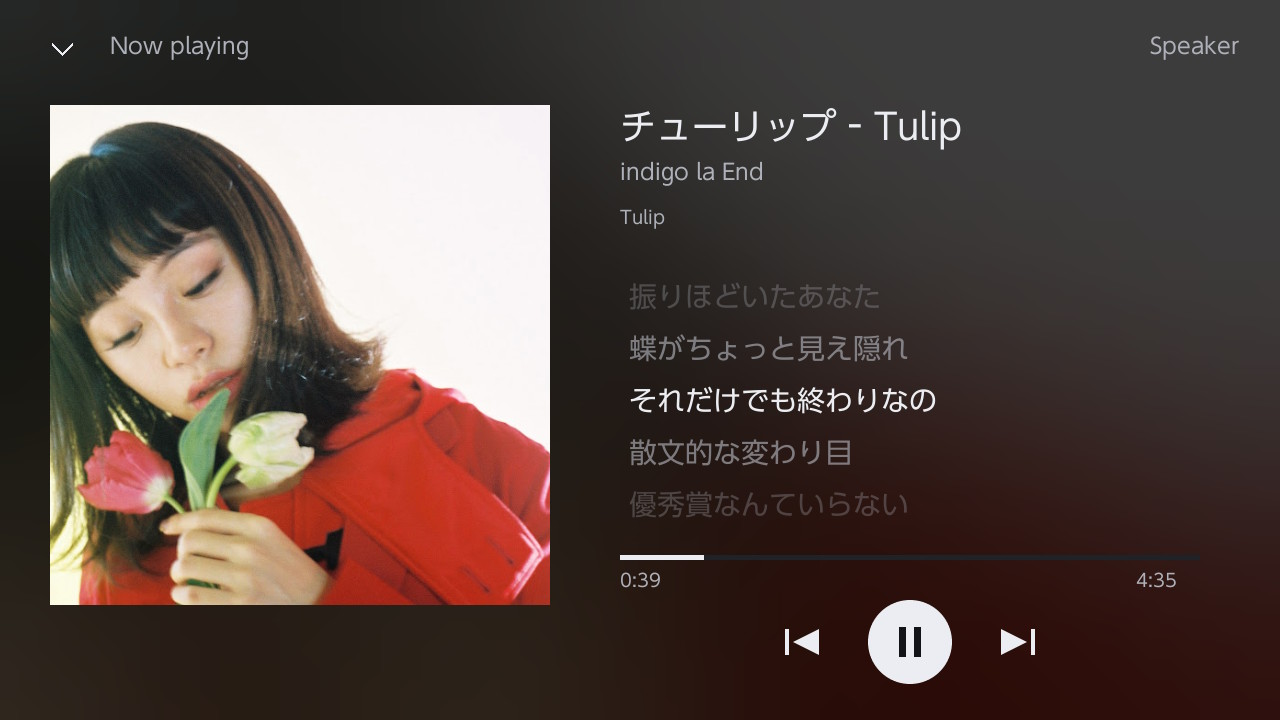
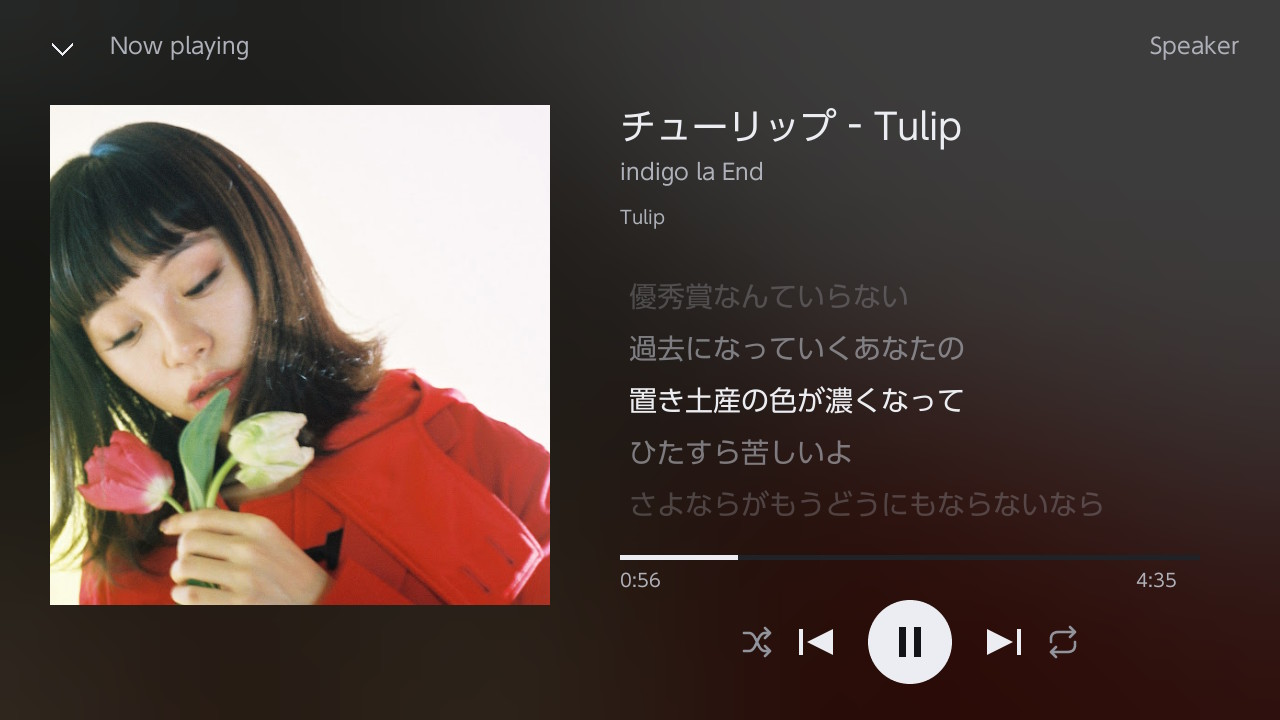
shuffle repeat

diff --git a/src/app.cpp b/src/app.cpp
@@ -3,6 +3,9 @@
 #include "library_store.hpp"
 #include "touch_scroll.hpp"
 #include "visuals.hpp"
+#include "playback_order.hpp"
+#include "queue_actions.hpp"
+#include "playback_icons.hpp"
 #include <SDL2/SDL_ttf.h>
 #include <SDL2/SDL_image.h>
 #include <fstream>
@@ -30,11 +33,11 @@ std::string clockText(double sec){int t=std::max(0,int(sec));return std::to_stri
 struct Hit {SDL_Rect rect;std::function<void()> action;};
 class App {
     SDL_Window* window_=nullptr;SDL_Renderer* renderer_=nullptr;std::map<int,TTF_Font*> fonts_;
-    std::map<std::string,SDL_Texture*> textures_,backgrounds_;std::vector<Hit> hits_;
+    std::map<std::string,SDL_Texture*> textures_,backgrounds_;std::vector<Hit> hits_;std::vector<Song> upcomingRows_;std::vector<int> upcomingIndices_;
     std::map<std::string,SDL_Texture*> shapeTextures_;
     struct TitleTexture{SDL_Texture* texture;int width,height;Uint32 started;};std::map<std::string,TitleTexture> titleTextures_;
     std::string lyricAnimationSong_;int lyricTarget_=-2;double lyricVisual_=0,lyricFrom_=0;Uint32 lyricAnimationStart_=0;std::map<std::string,int> lyricHeights_;Song pendingMetadata_;
-    Api api_;std::unique_ptr<Player> player_;std::thread fetch_,art_,lyricsWorker_;
+    PlaybackOrder playbackOrder_{unsigned(SDL_GetPerformanceCounter())};Api api_;std::unique_ptr<Player> player_;std::thread fetch_,art_,lyricsWorker_;
     std::atomic<bool> closing_{false},loading_{false};std::mutex dataMutex_;
     std::vector<Song> results_,searchRows_,artistRows_,albumRows_,relatedRows_,pending_,library_,queue_,artRequests_;std::map<std::string,std::string> artPending_;
     std::condition_variable lyricsCv_;Song lyricsRequest_;bool lyricsRequested_=false;std::map<std::string,Lyrics> lyricCache_,lyricPending_;
@@ -46,7 +49,7 @@ class App {
     PadState pad_;AppletHookCookie hook_{};bool audioControlReady_=false;
 #endif
     Uint32 audioPoll_=0;std::string audioRoute_="Audio: --";
-    Uint32 artworkRetry_=0,analogRepeat_=0;int analogDirection_=0;
+    Uint32 artworkRetry_=0,analogRepeat_=0;int analogDirection_=0;float homeScroll_=0;int homeSelection_=0;
     std::string libraryPath_;
     void color(SDL_Color c){SDL_SetRenderDrawColor(renderer_,c.r,c.g,c.b,c.a);}
     void rect(SDL_Rect r,SDL_Color c){color(c);SDL_RenderFillRect(renderer_,&r);}
@@ -77,7 +80,16 @@ class App {
         hits_.push_back({r,std::move(action)});
     }
     void togglePlayback(){if(current_.id.empty())search();else if(!player_->active())player_->play(current_);else player_->toggle();}
-    void transport(int center,int y){icon({center-137,y+10,64,64},0,[this]{next(-1);});icon({center-42,y,84,84},player_->active()&&!player_->paused()?2:1,[this]{togglePlayback();},true);icon({center+73,y+10,64,64},3,[this]{next(1);});}
+    void playbackMode(SDL_Rect r,bool shuffle){
+        bool enabled=shuffle?playbackOrder_.shuffle:playbackOrder_.repeat!=0;SDL_Color fg=enabled?ink:SDL_Color{145,148,157,255};
+        std::string key="mode|"+std::to_string(shuffle)+"|"+std::to_string(enabled);auto it=shapeTextures_.find(key);
+        if(it==shapeTextures_.end()){auto* s=playback_icon(shuffle,fg);if(s){auto* texture=SDL_CreateTextureFromSurface(renderer_,s);SDL_FreeSurface(s);if(texture)it=shapeTextures_.emplace(key,texture).first;}}
+        if(it!=shapeTextures_.end()){SDL_Rect dest{r.x+4,r.y+6,36,36};SDL_RenderCopy(renderer_,it->second,nullptr,&dest);}
+        if(!shuffle&&playbackOrder_.repeat==2)centeredLabel("1",{r.x+10,r.y+12,24,24},12,fg);
+        if(enabled)round({r.x+20,r.y+44,4,4},2,ink);
+        hits_.push_back({r,[this,shuffle]{if(shuffle){playbackOrder_.shuffle=!playbackOrder_.shuffle;playbackOrder_.reset(int(queue_.size()),queueIndex_);notice_=playbackOrder_.shuffle?"Shuffle on":"Shuffle off";}else{playbackOrder_.repeat=(playbackOrder_.repeat+1)%3;notice_=playbackOrder_.repeat==0?"Repeat off":playbackOrder_.repeat==1?"Repeat all":"Repeat one";}}});
+    }
+    void transport(int center,int y){playbackMode({center-175,y+18,44,48},true);icon({center-117,y+16,52,52},0,[this]{next(-1);});icon({center-42,y,84,84},player_->active()&&!player_->paused()?2:1,[this]{togglePlayback();},true);icon({center+65,y+16,52,52},3,[this]{next(1);});playbackMode({center+131,y+18,44,48},false);}
     void focusPlayer(){if(current_.id.empty()){search();return;}fullscreen_=true;requestLyrics(current_,true);}
     void requestLyrics(const Song& song,bool retry=false){auto found=lyricCache_.find(song.id);if(found!=lyricCache_.end()&&(!retry||!found->second.lines.empty()||!found->second.plain.empty()||found->second.status=="Instrumental"))return;lyricCache_[song.id]={{},{},"Loading lyrics..."};
 #ifdef ECHO_PREVIEW
@@ -87,9 +99,9 @@ class App {
 #endif
     }
     void cover(const Song& s,SDL_Rect r){auto it=textures_.find(s.id);if(it!=textures_.end())SDL_RenderCopy(renderer_,it->second,nullptr,&r);else{round(r,16,surface);if(r.w>100)label(s.title.empty()?"Music":s.title,r.x+20,r.y+r.h/2-16,28,muted,r.w-40);}}
-    std::vector<Song>& visible(){return tab_==2?library_:tab_==3?queue_:tab_==4?artistRows_:tab_==5?albumRows_:tab_==1?searchRows_:results_;}
+    std::vector<Song>& visible(){if(tab_==3){upcomingIndices_=playbackOrder_.displayOrder();upcomingRows_.clear();for(int i:upcomingIndices_)if(i>=0&&i<int(queue_.size()))upcomingRows_.push_back(queue_[i]);selected_=std::clamp(selected_,0,std::max(0,int(upcomingRows_.size())-1));return upcomingRows_;}return tab_==2?library_:tab_==4?artistRows_:tab_==5?albumRows_:tab_==1?searchRows_:results_;}
     void saveLibrary(){save_library(libraryPath_,library_);}
-    void favorite(){if(current_.id.empty()){notice_="Choose a song before saving it to your library.";return;}auto previous=library_;auto it=std::find_if(library_.begin(),library_.end(),[&](const Song& s){return s.id==current_.id;});if(it==library_.end())library_.push_back(current_);else library_.erase(it);try{saveLibrary();homeOffset_=0;fetch(0);notice_="Library updated";}catch(const std::exception& e){library_=std::move(previous);notice_=e.what();}}
+    void favorite(){if(current_.id.empty()){notice_="Choose a song before saving it to your library.";return;}auto previous=library_;auto it=std::find_if(library_.begin(),library_.end(),[&](const Song& s){return s.id==current_.id;});if(it==library_.end())library_.push_back(current_);else library_.erase(it);try{saveLibrary();homeOffset_=0;notice_="Library updated";}catch(const std::exception& e){library_=std::move(previous);notice_=e.what();}}
     static std::string pageKey(int mode,const Song& song){return mode==4?song.albumId+"|"+song.id:song.artistId+"|"+song.artist;}
     void fetch(int mode,const std::string& value=""){
         if(loading_){deferredMode_=mode;deferredValue_=value;return;}
@@ -133,16 +145,27 @@ class App {
         if(!loading_ && deferredMode_>=0){int mode=deferredMode_;auto value=deferredValue_;deferredMode_=-1;fetch(mode,value);}
     }
     void choose(int i){auto rows=visible();if(i<0||i>=int(rows.size()))return;
-        if(tab_!=3){queue_=rows;queueIndex_=i;}else queueIndex_=i;
+        if(tab_!=3){queue_.assign(rows.begin()+i,rows.end());queueIndex_=0;playbackOrder_.reset(int(queue_.size()),queueIndex_);}else{queueIndex_=upcomingIndices_[i];playbackOrder_.select(queueIndex_);selected_=i;}
         current_=queue_[queueIndex_];artwork({current_});player_->play(current_);fetch(2,current_.id);requestLyrics(current_);
     }
-    void next(int direction){if(queue_.empty()){notice_="Choose a song to start the queue.";return;}int i=queueIndex_+direction;if(i<0)i=0;
-        if(i>=int(queue_.size())){std::set<std::string> ids;for(auto& s:queue_)ids.insert(s.id);for(auto& s:relatedRows_)if(ids.insert(s.id).second)queue_.push_back(s);}
-        if(i<int(queue_.size())){queueIndex_=i;current_=queue_[i];artwork({current_});player_->play(current_);fetch(2,current_.id);requestLyrics(current_);}else notice_="Queue finished. Pick another song.";
+    void playNextSelected(){
+        if(fullscreen_){notice_="Select a song in the list, then press Y.";return;}
+        auto& rows=visible();if(selected_<0||selected_>=int(rows.size())){notice_="Select a song first.";return;}
+        Song song=rows[selected_];if(current_.id.empty()||queue_.empty()){choose(selected_);return;}
+        if(song.id==current_.id){notice_="This song is already playing.";return;}
+        if(enqueue_next(queue_,queueIndex_,song,playbackOrder_)){notice_="Playing next: "+song.title;if(tab_==3){selected_=0;listScroll_.reset();}}
+    }
+    void next(int direction,bool automatic=false){
+        if(queue_.empty()){notice_="Choose a song to start the queue.";return;}
+        if(playbackOrder_.size()!=int(queue_.size()))playbackOrder_.reset(int(queue_.size()),queueIndex_);
+        int i=playbackOrder_.step(direction,automatic);
+        if(i<0&&direction>0&&!playbackOrder_.shuffle&&playbackOrder_.repeat==0){std::set<std::string> ids;for(const auto& s:queue_)ids.insert(s.id);for(const auto& s:relatedRows_)if(ids.insert(s.id).second)queue_.push_back(s);playbackOrder_.reset(int(queue_.size()),queueIndex_);i=playbackOrder_.step(1);}
+        if(i<0){notice_="Queue finished. Pick another song.";return;}
+        queueIndex_=i;current_=queue_[i];artwork({current_});player_->play(current_);fetch(2,current_.id);requestLyrics(current_);
     }
     void openArtist(Song song={}){if(song.id.empty()){auto& rows=visible();if(selected_<int(rows.size()))song=rows[selected_];else song=current_;}if(song.artist.empty()){notice_="Choose a song with an artist first.";return;}artistAnchor_=song;artistRows_.clear();fullscreen_=false;tab_=4;selected_=0;listScroll_.reset();fetch(3);}
     void openAlbum(Song song={}){if(song.id.empty()){auto& rows=visible();if(selected_<int(rows.size()))song=rows[selected_];else song=current_;}if(song.id.empty()){notice_="Choose a song first.";return;}albumAnchor_=song;albumRows_.clear();fullscreen_=false;tab_=5;selected_=0;listScroll_.reset();fetch(4);}
-    void changeTab(int t){int next=(t+6)%6;if(next==4&&artistAnchor_.id.empty()){openArtist();return;}if(next==5&&albumAnchor_.id.empty()){openAlbum();return;}fullscreen_=false;tab_=next;selected_=0;listScroll_.reset();if(tab_==0){heading_="Discover";fetch(0);}if(tab_==1 && query_.empty())notice_="Press X or tap Search to enter a song or artist.";if(tab_==2)artwork(library_);}
+    void changeTab(int t){int next=(t+6)%6;bool refreshHome=tab_==0&&next==0;if(tab_==0&&next!=0){homeScroll_=listScroll_.offset;homeSelection_=selected_;}if(next==4&&artistAnchor_.id.empty()){openArtist();return;}if(next==5&&albumAnchor_.id.empty()){openAlbum();return;}fullscreen_=false;tab_=next;selected_=0;listScroll_.reset();if(tab_==0){heading_="Discover";if(refreshHome)fetch(0);else{selected_=homeSelection_;listScroll_.offset=homeScroll_;}}if(tab_==1 && query_.empty())notice_="Press X or tap Search to enter a song or artist.";if(tab_==2)artwork(library_);}
     void search(){
         std::string q;
 #ifdef __SWITCH__
@@ -165,7 +188,7 @@ class App {
     }
     void action(int key){if(screenOff_){wake();return;}
         auto& rows=visible();switch(key){
-        case 0:if(fullscreen_)togglePlayback();else choose(selected_);break;case 1:if(fullscreen_)fullscreen_=false;else changeTab(0);break;case 2:fullscreen_=false;search();break;case 3:togglePlayback();break;
+        case 0:if(fullscreen_)togglePlayback();else choose(selected_);break;case 1:if(fullscreen_)fullscreen_=false;else changeTab(0);break;case 2:fullscreen_=false;search();break;case 3:playNextSelected();break;
         case 4:if(selected_>0)--selected_;break;case 5:if(selected_+1<int(rows.size()))++selected_;break;
         case 6:changeTab(tab_-1);break;case 7:changeTab(tab_+1);break;case 8:next(-1);break;case 9:next(1);break;
         case 10:dark();break;case 11:favorite();break;case 12:running_=false;break;
@@ -184,7 +207,7 @@ public:
         renderer_=SDL_CreateRenderer(window_,-1,SDL_RENDERER_ACCELERATED|SDL_RENDERER_PRESENTVSYNC);
         if(!renderer_)renderer_=SDL_CreateRenderer(window_,-1,SDL_RENDERER_SOFTWARE);
         if(!renderer_)throw std::runtime_error(SDL_GetError());SDL_RenderSetLogicalSize(renderer_,1280,720);SDL_SetRenderDrawBlendMode(renderer_,SDL_BLENDMODE_BLEND);
-        for(int size:{18,22,28,36,44}){
+        for(int size:{12,18,22,28,36,44}){
 #ifdef __SWITCH__
             PlFontData font{};if(R_FAILED(plGetSharedFontByType(&font,PlSharedFontType_Standard)))throw std::runtime_error("System font unavailable");fonts_[size]=TTF_OpenFontRW(SDL_RWFromConstMem(font.address,font.size),1,size);
 #else
@@ -258,7 +281,7 @@ public:
         cover(current_,{40,105,350,350});hits_.push_back({{40,105,350,350},[this]{focusPlayer();}});
         songTitle(current_.id.empty()?"Your next listen":current_.title,40,474,28,350);label(current_.id.empty()?"Pick a song on the right":current_.artist,40,512,22,muted,350);
         timeline(40,558,350);transport(215,608);
-        label(tab_==2?"Your library":tab_==3?"Up next":tab_==4?artistAnchor_.artist:tab_==5?(albumAnchor_.album.empty()?"Album":albumAnchor_.album):tab_==0?"For you":heading_,440,106,36,ink,600);
+        label(tab_==2?"Your library":tab_==3?"Queue":tab_==4?artistAnchor_.artist:tab_==5?(albumAnchor_.album.empty()?"Album":albumAnchor_.album):tab_==0?"For you":heading_,440,106,36,ink,600);
         button({1050,104,190,54},tab_==1?"Search":tab_==2?"Search songs":tab_==3?"Discover":"Refresh",[this]{if(tab_==1||tab_==2)search();else if(tab_==5)fetch(4);else if(tab_==4)fetch(3);else if(tab_==0)fetch(0);else changeTab(0);});
         label(tab_==0?(library_.empty()?"YouTube Music discovery / save songs to tune this feed":"Recommendations based on your saved songs"):tab_==1?"Songs and artists":tab_==2?"Press - to save the playing song":tab_==4?"Songs from this artist's YouTube Music page":tab_==5?"Tracks from this album":"Songs play in this order",440,158,18,muted,790);
         auto& rows=visible();listScroll_.offset=std::clamp(listScroll_.offset,0.f,std::max(0.f,float(rows.size()*72)-390));
@@ -266,15 +289,15 @@ public:
         if(start!=artworkStart_||tab_!=artworkTab_||SDL_GetTicks()-artworkRetry_>5000){artworkRetry_=SDL_GetTicks();artworkStart_=start;artworkTab_=tab_;std::vector<Song> shown;if(!current_.id.empty())shown.push_back(current_);for(int i=start;i<int(rows.size())&&i<start+7;i++)shown.push_back(rows[i]);artwork(shown);}
         for(int i=start;i<int(rows.size())&&i<start+7;i++){
             int y=199+i*72-int(listScroll_.offset);SDL_Rect bounds{440,y,800,66};round(bounds,14,i==selected_?surface:paper);
-            if(i==selected_){color(accent);SDL_RenderDrawRect(renderer_,&bounds);}
+            if(i==selected_){color(accent);SDL_RenderDrawRect(renderer_,&bounds);}if(tab_==3&&rows[i].id==current_.id){rect({1003,y+25,2,14},ink);rect({1007,y+20,2,24},ink);rect({1011,y+28,2,8},ink);}
             cover(rows[i],{450,y+8,50,50});songTitle(rows[i].title,515,y+6,22,480);label(rows[i].artist,515,y+37,18,muted,420);label(rows[i].duration,947,y+37,18,muted,65);
             auto song=rows[i];button({1020,y+9,100,48},"Artist",[this,song]{openArtist(song);},false,18);button({1130,y+9,105,48},"Album",[this,song]{openAlbum(song);},false,18);
             hits_.push_back({bounds,[this,i]{selected_=i;choose(i);}});
         }
         for(size_t i=firstHit;i<hits_.size();i++){SDL_Rect clipped{};SDL_IntersectRect(&hits_[i].rect,&clip,&clipped);hits_[i].rect=clipped;}
         SDL_RenderSetClipRect(renderer_,nullptr);if(rows.size()*72>390){int height=std::max(20,390*390/int(rows.size()*72));rect({1248,199+int((390-height)*listScroll_.offset/(rows.size()*72-390)),3,height},muted);}
-        if(rows.empty())label(loading_?"Loading songs from YouTube Music...":tab_==2?"Your library is empty. Play a song, then press -.":tab_==3?"Choose a song to start an audio queue.":"Press X to search or tap Refresh.",450,255,22,muted,760);
-        std::string message=loading_?"Loading YouTube Music...":notice_.empty()?player_->status():notice_;if(message!="Playing audio only")label(message,440,598,18,muted,780);label("Tap cover: Fullscreen   - Save   + Screen off",440,627,18,muted,800);
+        if(rows.empty())label(loading_?"Loading songs from YouTube Music...":tab_==2?"Your library is empty. Play a song, then press -.":tab_==3?"Choose a song to start a queue.":"Press X to search or tap Refresh.",450,255,22,muted,760);
+        std::string message=loading_?"Loading YouTube Music...":notice_.empty()?player_->status():notice_;if(message!="Playing audio only")label(message,440,598,18,muted,780);label("Tap cover: Fullscreen   Y Play next   - Save   + Screen off",440,627,18,muted,800);
         for(int i=0;i<6;i++){SDL_Rect r{440+i*133,662,125,46};round(r,16,i==tab_?ink:surface);centeredLabel(tabNames[i],r,22,i==tab_?paper:ink);hits_.push_back({r,[this,i]{changeTab(i);}});}
         SDL_RenderPresent(renderer_);
     }
@@ -302,9 +325,9 @@ public:
             if(event.type==SDL_MOUSEMOTION||event.type==SDL_FINGERMOTION){if(!pointerActive_)continue;if(event.type==SDL_FINGERMOTION&&event.tfinger.fingerId!=pointerFinger_)continue;pointerX_=event.type==SDL_FINGERMOTION?int(event.tfinger.x*1280):event.motion.x;pointerY_=event.type==SDL_FINGERMOTION?int(event.tfinger.y*720):event.motion.y;if(pointerOnList_)listScroll_.move(pointerY_,std::max(0.f,float(visible().size()*72)-390));if(pointerOnLyrics_)lyricScroll_.move(pointerY_,lyricScrollMax_);}
             if(event.type==SDL_MOUSEBUTTONUP||event.type==SDL_FINGERUP){if(wakeTouch_){wakeTouch_=false;continue;}if(!pointerActive_)continue;if(event.type==SDL_FINGERUP&&event.tfinger.fingerId!=pointerFinger_)continue;pointerX_=event.type==SDL_FINGERUP?int(event.tfinger.x*1280):event.button.x;pointerY_=event.type==SDL_FINGERUP?int(event.tfinger.y*720):event.button.y;bool tap=true;if(pointerOnList_){listScroll_.move(pointerY_,std::max(0.f,float(visible().size()*72)-390));tap=listScroll_.end();}if(pointerOnLyrics_){lyricScroll_.move(pointerY_,lyricScrollMax_);tap=lyricScroll_.end();}pointerActive_=false;if(tap)for(auto& hit:hits_)if(pointerX_>=hit.rect.x&&pointerX_<hit.rect.x+hit.rect.w&&pointerY_>=hit.rect.y&&pointerY_<hit.rect.y+hit.rect.h){auto action=hit.action;action();break;}}
             if(event.type==SDL_MOUSEWHEEL&&!fullscreen_)listScroll_.offset=std::clamp(listScroll_.offset-event.wheel.y*48.f,0.f,std::max(0.f,float(visible().size()*72)-390));
-            if(event.type==SDL_KEYDOWN){switch(event.key.keysym.sym){case SDLK_RETURN:action(0);break;case SDLK_ESCAPE:action(12);break;case SDLK_UP:action(4);break;case SDLK_DOWN:action(5);break;case SDLK_x:action(2);break;case SDLK_SPACE:action(3);break;case SDLK_LEFT:action(6);break;case SDLK_RIGHT:action(7);break;}}
+            if(event.type==SDL_KEYDOWN){switch(event.key.keysym.sym){case SDLK_RETURN:action(0);break;case SDLK_ESCAPE:action(12);break;case SDLK_UP:action(4);break;case SDLK_DOWN:action(5);break;case SDLK_x:action(2);break;case SDLK_SPACE:togglePlayback();break;case SDLK_y:action(3);break;case SDLK_LEFT:action(6);break;case SDLK_RIGHT:action(7);break;}}
         }
-        applyPending();if(player_->ended())next(1);
+        applyPending();if(player_->ended())next(1,true);
 #ifdef __SWITCH__
         appletSetMediaPlaybackState(player_->active());
 #endif

diff --git a/tests/playback_order_test.cpp b/tests/playback_order_test.cpp
@@ -1,0 +1,20 @@
+#include "playback_order.hpp"
+#include <cassert>
+#include <set>
+#include <iostream>
+int main(){
+    echo::PlaybackOrder order(42);order.reset(3,0);assert(order.step(1)==1);assert(order.step(-1)==0);assert(order.step(-1)==-1);
+    order.repeat=1;assert(order.step(-1)==2);assert(order.step(1)==0);
+    order.repeat=2;assert(order.step(1,true)==0);assert(order.step(1,false)==1);
+    order.shuffle=true;order.repeat=0;order.reset(8,3);std::set<int> seen{3};int previous=3;
+    for(int n=0;n<7;n++){int next=order.step(1);assert(next>=0&&seen.insert(next).second);assert(order.step(-1)==previous);assert(order.step(1)==next);previous=next;}
+    assert(order.step(1)==-1);order.repeat=1;assert(order.step(1)==3);
+    order.reset(1,0);assert(order.step(1)==0);order.repeat=0;assert(order.step(1)==-1);
+    order.reset(0,0);assert(order.step(1)==-1);
+    order.shuffle=false;order.repeat=0;order.reset(10,4);assert((order.upcoming()==std::vector<int>{5,6,7,8,9}));assert(order.select(7));assert((order.upcoming()==std::vector<int>{8,9}));assert(order.step(1)==8);
+    order.shuffle=true;order.reset(10,4);auto upcoming=order.upcoming();assert(upcoming.size()==9);assert(std::find(upcoming.begin(),upcoming.end(),4)==upcoming.end());for(int index:upcoming)assert(order.step(1)==index);assert(order.upcoming().empty());
+    order.repeat=1;order.shuffle=false;order.reset(3,2);assert((order.upcoming()==std::vector<int>{0,1}));
+    order.repeat=0;order.shuffle=false;order.reset(5,0);order.promoteNext(3);assert(order.step(1)==3);assert((order.upcoming()==std::vector<int>{1,2,4}));assert(order.step(1)==1);
+    order.repeat=0;order.shuffle=false;order.reset(4,0);auto original=order.displayOrder();assert(order.select(2));assert(order.displayOrder()==original);assert(order.step(1)==3);assert(order.select(0));assert(order.displayOrder()==original);order.shuffle=true;order.reset(8,0);original=order.displayOrder();assert(order.select(original[4]));assert(order.displayOrder()==original);assert(order.step(1)==original[5]);
+    std::cout<<"PASS: sequential navigation, shuffle without repeats, previous history, repeat all/one, manual skip, empty/single queues.\n";
+}

diff --git a/include/playback_order.hpp b/include/playback_order.hpp
@@ -1,0 +1,44 @@
+#pragma once
+#include <algorithm>
+#include <numeric>
+#include <random>
+#include <vector>
+namespace echo {
+class PlaybackOrder {
+    std::vector<int> order_;
+    int position_=0;
+    std::mt19937 random_;
+public:
+    bool shuffle=false;
+    int repeat=0;
+    explicit PlaybackOrder(unsigned seed=1):random_(seed){}
+    void reset(int size,int current){
+        order_.resize(size);std::iota(order_.begin(),order_.end(),0);
+        if(size==0){position_=0;return;}
+        current=std::clamp(current,0,size-1);
+        if(shuffle){std::swap(order_[0],order_[current]);std::shuffle(order_.begin()+1,order_.end(),random_);position_=0;}else position_=current;
+    }
+    void promoteNext(int index){
+        if(order_.empty()||index<0||index>=size()||order_[position_]==index)return;
+        int current=order_[position_];auto found=std::find(order_.begin(),order_.end(),index);
+        order_.erase(found);position_=int(std::find(order_.begin(),order_.end(),current)-order_.begin());
+        order_.insert(order_.begin()+position_+1,index);
+    }
+    std::vector<int> upcoming()const{
+        if(order_.empty())return {};
+        std::vector<int> result(order_.begin()+position_+1,order_.end());
+        if(repeat==1)result.insert(result.end(),order_.begin(),order_.begin()+position_);
+        return result;
+    }
+    bool select(int index){auto it=std::find(order_.begin(),order_.end(),index);if(it==order_.end())return false;position_=int(it-order_.begin());return true;}
+    const std::vector<int>& displayOrder()const{return order_;}
+    int size()const{return int(order_.size());}
+    int step(int direction,bool automatic=false){
+        if(order_.empty())return -1;
+        if(automatic&&repeat==2)return order_[position_];
+        int next=position_+direction;
+        if(next<0||next>=size()){if(repeat==1)next=(next+size())%size();else return -1;}
+        position_=next;return order_[position_];
+    }
+};
+}

diff --git a/include/playback_icons.hpp b/include/playback_icons.hpp
@@ -1,0 +1,19 @@
+#pragma once
+#include "visuals.hpp"
+namespace echo {
+struct IconPoint {double x,y;};
+inline SDL_Surface* playback_icon(bool shuffle,SDL_Color color){
+    std::vector<std::pair<IconPoint,IconPoint>> edges;
+    auto line=[&](IconPoint a,IconPoint b){edges.push_back({a,b});};
+    auto curve=[&](IconPoint a,IconPoint b,IconPoint c,IconPoint d){IconPoint last=a;for(int i=1;i<=24;i++){double t=i/24.0,u=1-t;IconPoint p{u*u*u*a.x+3*u*u*t*b.x+3*u*t*t*c.x+t*t*t*d.x,u*u*u*a.y+3*u*u*t*b.y+3*u*t*t*c.y+t*t*t*d.y};line(last,p);last=p;}};
+    if(shuffle){
+        line({3,7},{8,7});curve({8,7},{16,7},{16,25},{24,25});line({24,25},{29,25});
+        line({3,25},{8,25});curve({8,25},{16,25},{16,7},{24,7});line({24,7},{29,7});
+        line({24,2},{29,7});line({29,7},{24,12});line({24,20},{29,25});line({29,25},{24,30});
+    }else{
+        line({4,16},{4,13});curve({4,13},{4,8},{7,6},{12,6});line({12,6},{28,6});line({23,1},{28,6});line({28,6},{23,11});
+        line({28,16},{28,19});curve({28,19},{28,24},{25,26},{20,26});line({20,26},{4,26});line({9,21},{4,26});line({4,26},{9,31});
+    }
+    return smooth_shape(36,36,color,[&](double x,double y){x-=2;y-=2;for(const auto& edge:edges){auto a=edge.first,b=edge.second;double dx=b.x-a.x,dy=b.y-a.y,t=std::clamp(((x-a.x)*dx+(y-a.y)*dy)/(dx*dx+dy*dy),0.0,1.0);double px=x-a.x-t*dx,py=y-a.y-t*dy;if(px*px+py*py<=1.3*1.3)return true;}return false;});
+}
+}

diff --git a/tests/queue_actions_test.cpp b/tests/queue_actions_test.cpp
@@ -1,0 +1,13 @@
+#include "queue_actions.hpp"
+#include <cassert>
+#include <iostream>
+int main(){
+    auto song=[](const char* id){echo::Song s;s.id=id;s.title=id;return s;};
+    echo::PlaybackOrder order(42);std::vector<echo::Song> queue={song("a"),song("b"),song("c")};int current=1;
+    assert(echo::enqueue_next(queue,current,song("a"),order));assert(current==0&&queue[current].id=="b"&&queue[current+1].id=="a"&&queue.size()==3);assert(order.step(1)==1);
+    order.shuffle=true;assert(echo::enqueue_next(queue,current,song("d"),order));assert(queue[current].id=="b"&&queue.size()==4&&queue[current+1].id=="d");assert(order.step(1,true)==current+1);
+    assert(echo::enqueue_next(queue,current,song("c"),order));assert(queue.size()==4&&queue[current+1].id=="c");assert(order.step(1)==current+1);
+    auto before=queue.size();assert(!echo::enqueue_next(queue,current,song("b"),order));assert(queue.size()==before&&queue[current].id=="b");
+    std::vector<echo::Song> empty;int invalid=-1;assert(!echo::enqueue_next(empty,invalid,song("a"),order));
+    std::cout<<"PASS: play next inserts/moves without duplicates, preserves current song, works with shuffle, and rejects current/empty queues.\n";
+}

diff --git a/include/queue_actions.hpp b/include/queue_actions.hpp
@@ -1,0 +1,12 @@
+#pragma once
+#include "model.hpp"
+#include "playback_order.hpp"
+namespace echo {
+inline bool enqueue_next(std::vector<Song>& queue,int& current,const Song& song,PlaybackOrder& order){
+    if(song.id.empty()||current<0||current>=int(queue.size())||queue[current].id==song.id)return false;
+    Song selected=song;
+    for(int i=0;i<int(queue.size());){if(queue[i].id==selected.id){queue.erase(queue.begin()+i);if(i<current)--current;}else ++i;}
+    queue.insert(queue.begin()+current+1,selected);
+    order.reset(int(queue.size()),current);order.promoteNext(current+1);return true;
+}
+}

diff --git a/README.md b/README.md
@@ -16,7 +16,7 @@ EchoNX is a native homebrew music player for Switch consoles running custom firm
 - **Fullscreen player:** blurred artwork background, scrolling titles, and touch playback controls.
 - **Lyrics:** animated synced lyrics, plus touch scrolling for lyrics without timestamps.
 - **Touch and controller navigation:** swipe lists, or select songs with directional buttons and either analog stick.
-- **Playback controls:** queue, pause, previous/next, and tap-to-seek.
+- **Playback controls:** queue, pause, previous/next, tap-to-seek, shuffle, and repeat (off, all, or one).
 - **Backlight off:** keep listening with the screen dark while EchoNX stays open.
 - **Audio output indicator:** see whether audio is routed to speakers, a headset, or another output.
 
@@ -55,7 +55,7 @@ Your saved library lives at `sd:/switch/echonx/library.json`.
 | A | Play the selected song; in fullscreen, play/pause |
 | B | Leave fullscreen or return to Home |
 | X | Search for a song or artist |
-| Y | Play/pause |
+| Y | Queue the selected song to play next (song lists) |
 | Up/down or either analog stick | Move the song selection |
 | L / R | Switch tabs |
 | ZL / ZR | Previous / next song |
